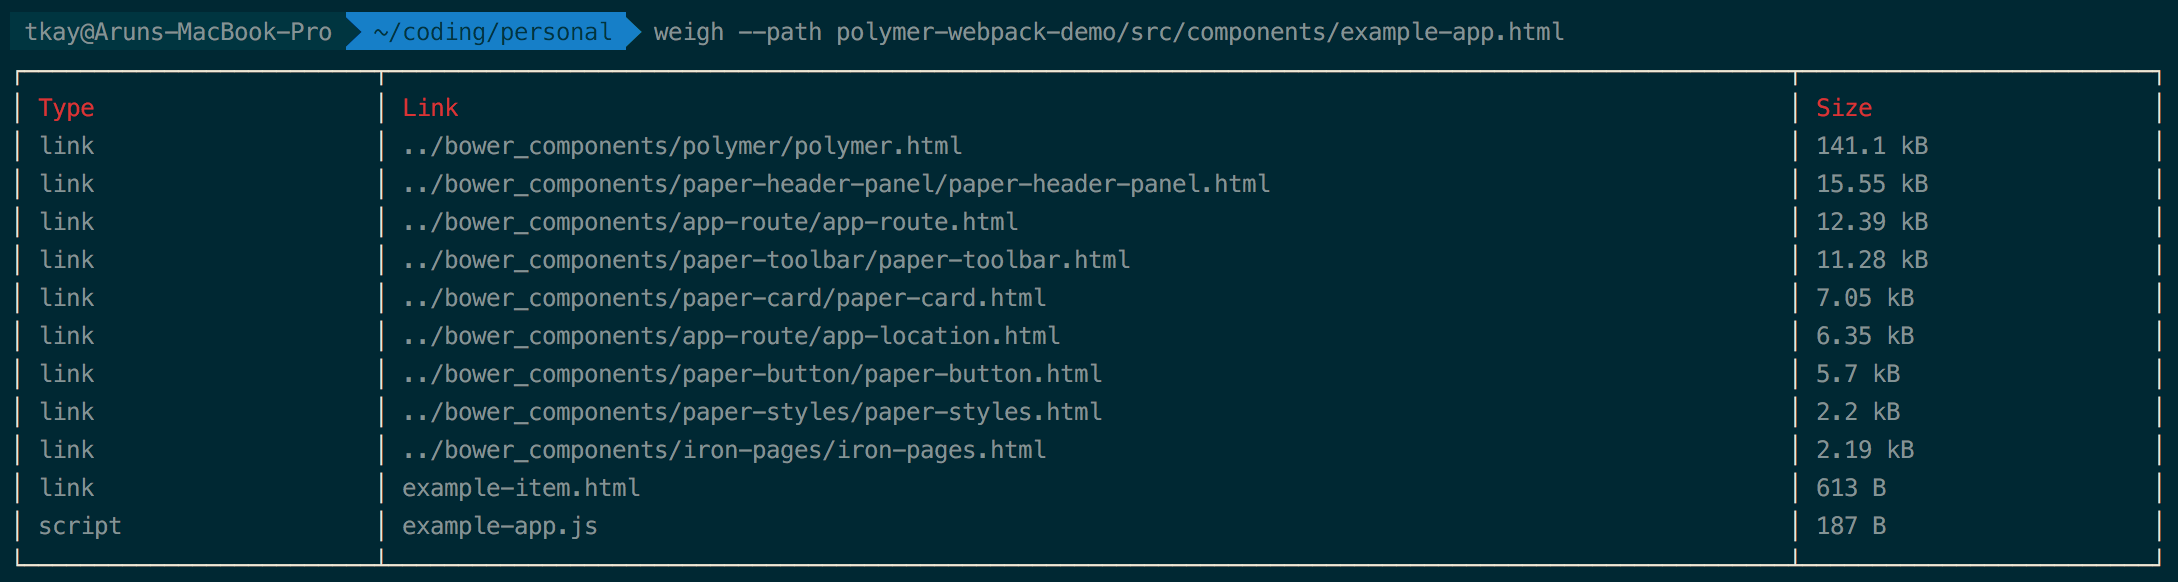
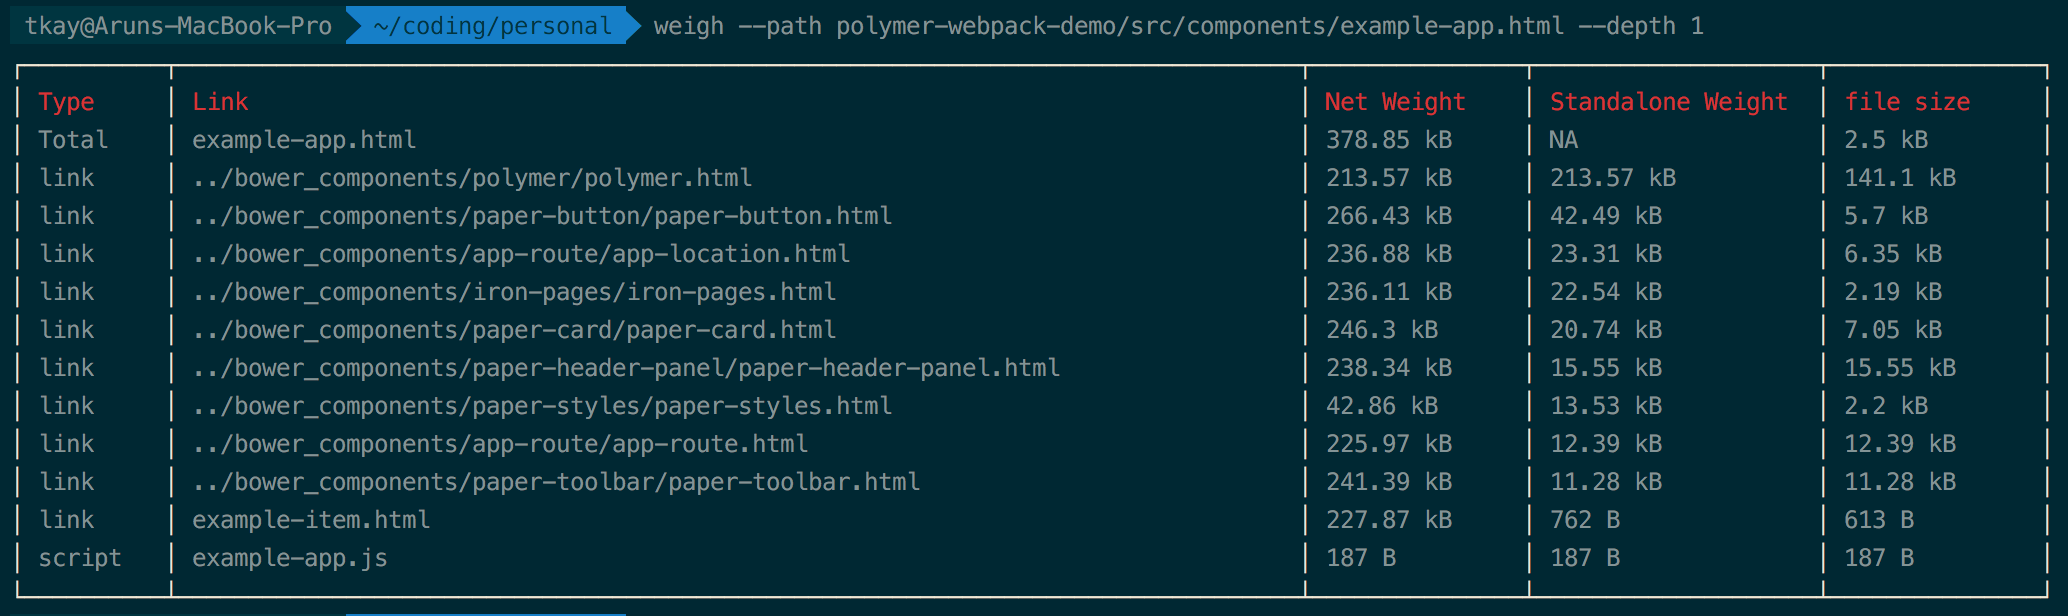
depth options added. standalone weight added.

diff --git a/src/cli.js b/src/cli.js
@@ -13,6 +13,7 @@ const cli = meow(`
 
     Options
       --path, -P  Path to starting file/folder
+      --depth, -d  How deep should the table show
 
     Examples
       $ weigh --path src/index.html
@@ -21,10 +22,11 @@ const cli = meow(`
 const flags = cli.flags;
 
 let sourcePath = flags.path ? path.resolve(flags.path): process.cwd();
+const tDepth = flags.depth;
 const store = {};
 const table = new Table({
-  head: ['Type', 'Link', 'Size'],
-  colWidths: [25, 100, 25],
+  head: ['Type', 'Link', 'Net Weight', 'Standalone Weight', 'file size'],
+  colWidths: [10, 80, 15, 20, 15],
   style: { head: ['red'], border: ['white'] },
   chars: { 'mid': '', 'left-mid': '', 'mid-mid': '', 'right-mid': '' }
 });
@@ -33,35 +35,108 @@ try {
   const stat = fs.statSync(sourcePath);
   const isDir = stat.isDirectory();
   const indexPath = isDir ? path.resolve(sourcePath, './index.html') : sourcePath;
-  const store = {};
   parseFile(indexPath, store).then((r) => {
+    const localLinks = _.filter(_.values(store), ast => ast.urlObject.local);
+    const indexWeight = calcOtherWeights(localLinks, indexPath, stat.size);
+    const fSize = filesize(stat.size, { base: 10 });
+    const nSize = filesize(indexWeight.nSize, { base: 10 });
     const astColl = _.values(store);
-    const group = _.groupBy(astColl, ast => ast.urlObject.local ? 'local': 'external');
-    if(!group.local && !group.external) {
-      console.log('No Links Found');
-      return;
+    let visibleColl;
+
+    if(tDepth) {
+      let visibleLinks = [indexPath];
+      for(let i = 0; i < tDepth; i += 1) {
+        visibleLinks = visibleLinks.concat(walkLinks(astColl, visibleLinks));
+      }
+      visibleColl = _.values(_.pick.apply(null, [store].concat(visibleLinks)));
     }
-    const sortedColl = _.sortBy(group.local, [function(ast) {
-      return ast.fileStats.size;
+
+    const group = _.groupBy(visibleColl || astColl, ast => ast.urlObject.local ? 'local': 'external');
+
+    const tableArray = toTableArray(group, stat.size, indexPath);
+
+    const sortedTable = _.sortBy(tableArray, [function(a) {
+      return a.detail.size;
     }]);
-    let netIndexSize = stat.size;
-    _.each(sortedColl.reverse(), (ast) => {
-      netIndexSize += ast.fileStats.size;
-      const size = filesize(ast.fileStats.size, { base: 10 });
-      const absPath = ast.urlObject.absPath;
-      const relPath = path.relative(path.dirname(indexPath), absPath);
-      table.push([ast.tagName, relPath, size]);
+
+    sortedTable.push({
+      arr : ['Total', path.basename(indexPath), nSize, 'NA', fSize],
+      detail: { size: nSize },
     });
-    _.each(group.external, (ast) => {
-      const absPath = ast.urlObject.absPath;
-      table.push([ast.tagName, absPath, 'NA']);
+
+    _.each(sortedTable.reverse(), function(a) {
+      table.push(a.arr);
     });
-    table.push(['Total', path.basename(indexPath), filesize(netIndexSize, { base: 10 })]);
+
     console.log(table.toString());
   });
 }
 catch(e) {
   console.log(e);
+}
+
+function walkLinks(links, filePaths) {
+
+  const immChildren = _.filter(links, (link) => {
+    return _.find(link.occurances, (o) => {
+      return filePaths.indexOf(o.filePath) !== -1;
+    });
+  });
+
+  return _.map(immChildren, (link) => {
+    return link.urlObject.absPath;
+  });
+
+}
+
+function calcOtherWeights(links, filePath, fSize) {
+  let nSize = 0;
+  let sSize = 0;
+  const immChildren = _.filter(links, (link) => {
+    return _.find(link.occurances, (o) => {
+      return o.filePath === filePath;
+    });
+  });
+  if(immChildren) {
+    _.each(immChildren, (c) => {
+      const childSize = calcOtherWeights(links, c.urlObject.absPath, c.fileStats.size);
+      nSize += childSize.sSize;
+      if(c.occurances.length === 1) {
+        sSize += childSize.sSize;
+      }
+    });
+  }
+  nSize += fSize;
+  sSize += fSize;
+  if(store[filePath]) {
+    store[filePath].fileStats.nSize = nSize;
+    store[filePath].fileStats.sSize = sSize;
+  }
+  return { nSize, sSize };
+}
+function toTableArray(group, initialIndexSize, indexPath) {
+  let netIndexSize = initialIndexSize;
+  const arr = [];
+  _.each(group.local, (ast) => {
+    netIndexSize += ast.fileStats.size;
+    const fSize = filesize(ast.fileStats.size, { base: 10 });
+    const nSize = filesize(ast.fileStats.nSize, { base: 10 });
+    const sSize = filesize(ast.fileStats.sSize, { base: 10 });
+    const absPath = ast.urlObject.absPath;
+    const relPath = path.relative(path.dirname(indexPath), absPath);
+    arr.push({
+      arr : [ast.tagName, relPath, nSize, sSize, fSize],
+      detail: { size: ast.fileStats.sSize  },
+    });
+  });
+  _.each(group.external, (ast) => {
+    const absPath = ast.urlObject.absPath;
+    arr.push({
+      arr : [ast.tagName, absPath, 'NA', 'NA', 'NA'],
+      detail: { size: 0 },
+    });
+  });
+  return arr;
 }
 
 

diff --git a/README.md b/README.md
@@ -10,11 +10,45 @@ npm i -g polymer-weight
 weigh --path path/to/file.html
 ```
 
+## Options
+
+### Path
+
+path to the starting file (index file)
+```sh
+weigh --path path/to/file.html
+```
+### Depth
+
+How deep the table should show.
+
+eg if depth = 1. Immediate child links and the index file
+```sh
+weigh --path path/to/file.html --depth 1
+```
+
+## Table Columns
+
+### Standalone weight
+
+Standalone size of the components. ie. space that can be saved by removing the component.
+
+### Net weight
+
+Net weight of a link.
+
+### file size
+
+Size of the file corresponding to a link.
+
 More features coming. :)
+
 
 ## TODO
 
 - [x] Deep Scanning of files (walk).
-- [ ] Net weight added by component and its children.
+- [x] Net weight added by component and its children.
+- [x] Standalone size (space that can be saved by removing the component)
 - [ ] Show dependency relationship in some way so that user can know which link to remove to reduce size.
 - [ ] Handle css imports.
+
